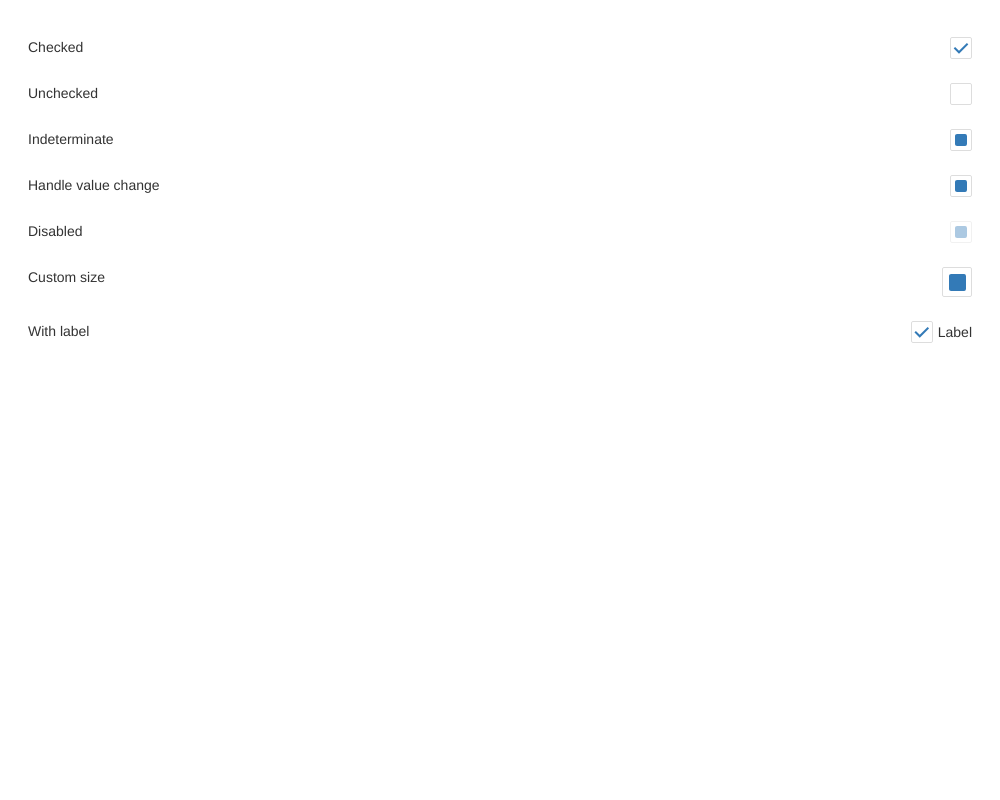
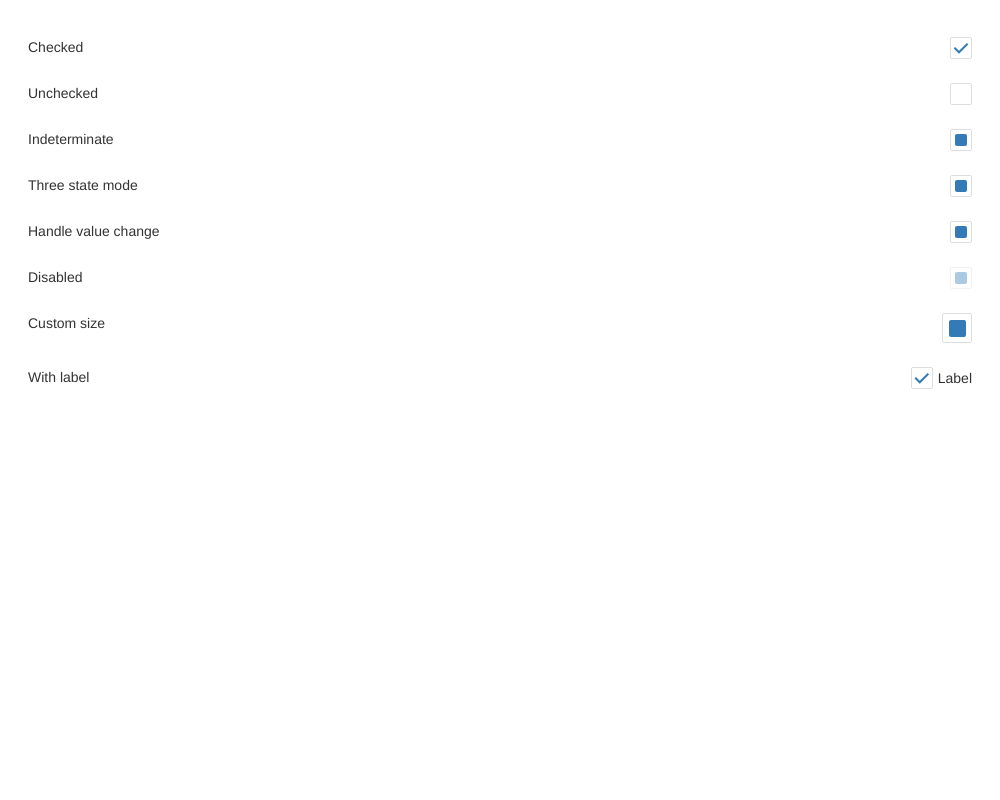
CheckBox: update demo to demonstrate setting indeterminate state in UI (#2013)

diff --git a/JSDemos/Demos/CheckBox/Overview/Vue/App.vue b/JSDemos/Demos/CheckBox/Overview/Vue/App.vue
@@ -20,6 +20,15 @@
         </div>
       </div>
       <div class="dx-field">
+        <div class="dx-field-label">Three state mode</div>
+        <div class="dx-field-value">
+          <DxCheckBox
+            :enable-three-state-behavior="true"
+            :value="null"
+          />
+        </div>
+      </div>
+      <div class="dx-field">
         <div class="dx-field-label">Handle value change</div>
         <div class="dx-field-value">
           <DxCheckBox v-model:value="checkBoxValue"/>
@@ -47,8 +56,8 @@
         <div class="dx-field-label">With label</div>
         <div class="dx-field-value">
           <DxCheckBox
-            :value="true"
             text="Label"
+            :value="true"
           />
         </div>
       </div>
@@ -62,6 +71,7 @@ export default {
   components: {
     DxCheckBox,
   },
+
   data() {
     return {
       checkBoxValue: null,

diff --git a/JSDemos/Demos/CheckBox/Overview/React/App.js b/JSDemos/Demos/CheckBox/Overview/React/App.js
@@ -39,6 +39,15 @@ class App extends React.Component {
             </div>
           </div>
           <div className="dx-field">
+            <div className="dx-field-label">Three state mode</div>
+            <div className="dx-field-value">
+              <CheckBox
+                enableThreeStateBehavior={true}
+                defaultValue={null}
+              />
+            </div>
+          </div>
+          <div className="dx-field">
             <div className="dx-field-label">Handle value change</div>
             <div className="dx-field-value">
               <CheckBox value={this.state.checkBoxValue} onValueChanged={this.onValueChanged} />

diff --git a/JSDemos/Demos/CheckBox/Overview/Angular/app/app.component.html b/JSDemos/Demos/CheckBox/Overview/Angular/app/app.component.html
@@ -19,6 +19,15 @@
       </div>
     </div>
     <div class="dx-field">
+      <div class="dx-field-label">Three state mode</div>
+      <div class="dx-field-value">
+        <dx-check-box
+          [enableThreeStateBehavior]="true"
+          [value]="null"
+        ></dx-check-box>
+      </div>
+    </div>
+    <div class="dx-field">
       <div class="dx-field-label">Handle value change</div>
       <div class="dx-field-value">
         <dx-check-box [(value)]="checkBoxValue"></dx-check-box>

diff --git a/JSDemos/Demos/CheckBox/Overview/AngularJS/index.html b/JSDemos/Demos/CheckBox/Overview/AngularJS/index.html
@@ -36,6 +36,12 @@
             </div>
           </div>
           <div class="dx-field">
+            <div class="dx-field-label">Three state mode</div>
+            <div class="dx-field-value">
+              <div dx-check-box="checkBox.threeStateMode"></div>
+            </div>
+          </div>
+          <div class="dx-field">
             <div class="dx-field-label">Handle value change</div>
             <div class="dx-field-value">
               <div dx-check-box="checkBox.handler"></div>

diff --git a/JSDemos/Demos/CheckBox/Overview/jQuery/index.html b/JSDemos/Demos/CheckBox/Overview/jQuery/index.html
@@ -35,6 +35,12 @@
             </div>
           </div>
           <div class="dx-field">
+            <div class="dx-field-label">Three state mode</div>
+            <div class="dx-field-value">
+              <div id="threeStateMode"></div>
+            </div>
+          </div>
+          <div class="dx-field">
             <div class="dx-field-label">Handle value change</div>
             <div class="dx-field-value">
               <div id="handler"></div>

diff --git a/JSDemos/Demos/CheckBox/Overview/AngularJS/index.js b/JSDemos/Demos/CheckBox/Overview/AngularJS/index.js
@@ -12,6 +12,10 @@ DemoApp.controller('DemoController', ($scope) => {
     indeterminate: {
       value: null,
     },
+    threeStateMode: {
+      enableThreeStateBehavior: true,
+      value: null,
+    },
     handler: {
       bindingOptions: {
         value: 'checkBoxValue',

diff --git a/JSDemos/Demos/CheckBox/Overview/jQuery/index.js b/JSDemos/Demos/CheckBox/Overview/jQuery/index.js
@@ -11,6 +11,11 @@ $(() => {
     value: null,
   });
 
+  $('#threeStateMode').dxCheckBox({
+    enableThreeStateBehavior: true,
+    value: null,
+  });
+
   $('#handler').dxCheckBox({
     value: null,
     onValueChanged(data) {
